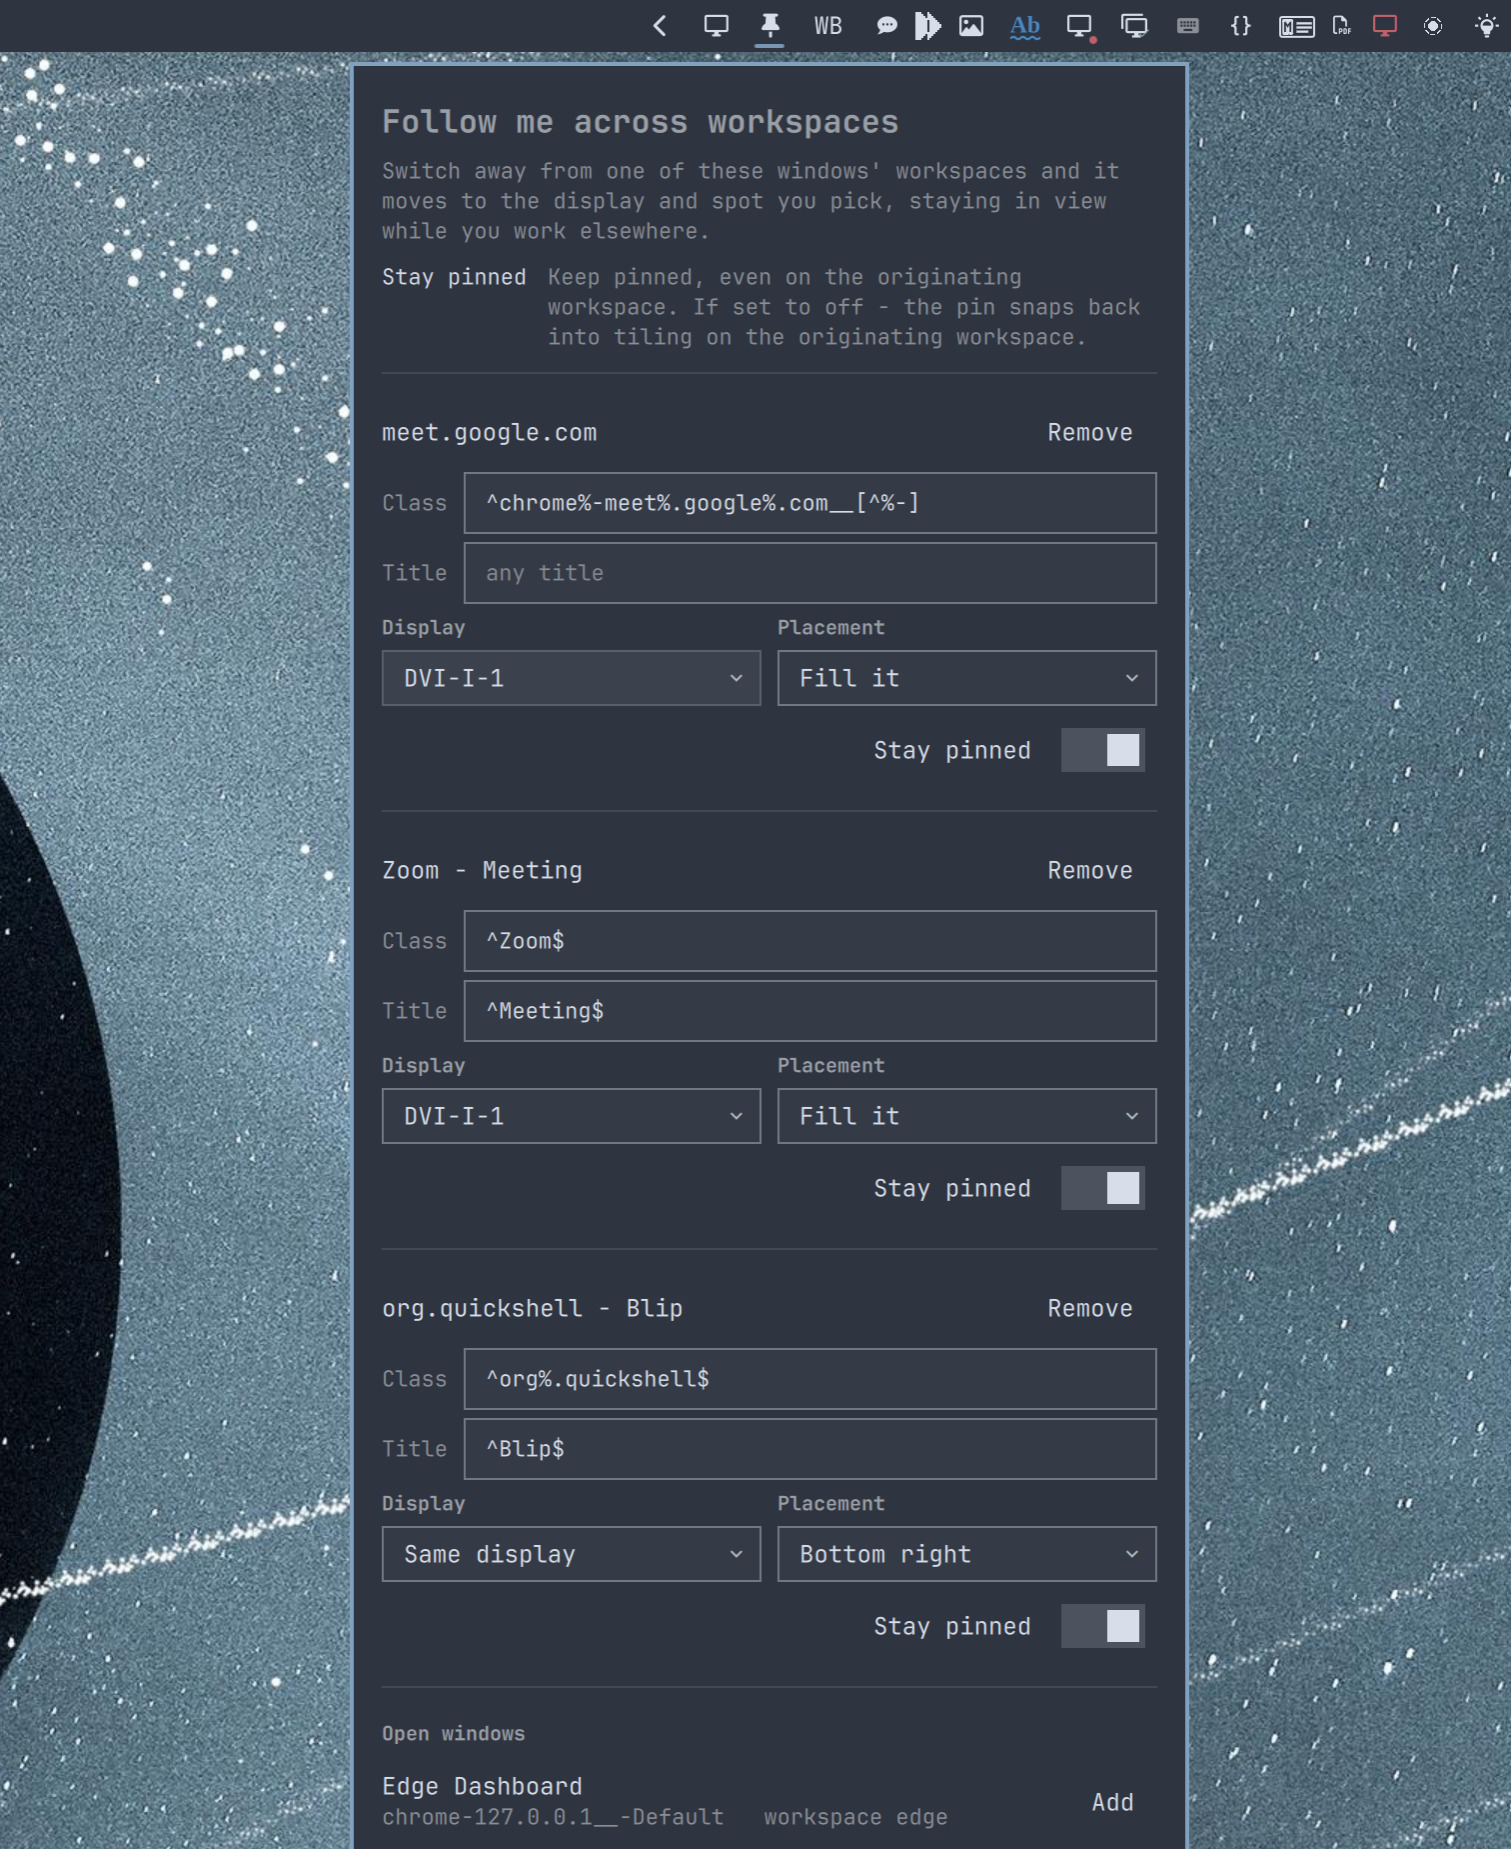
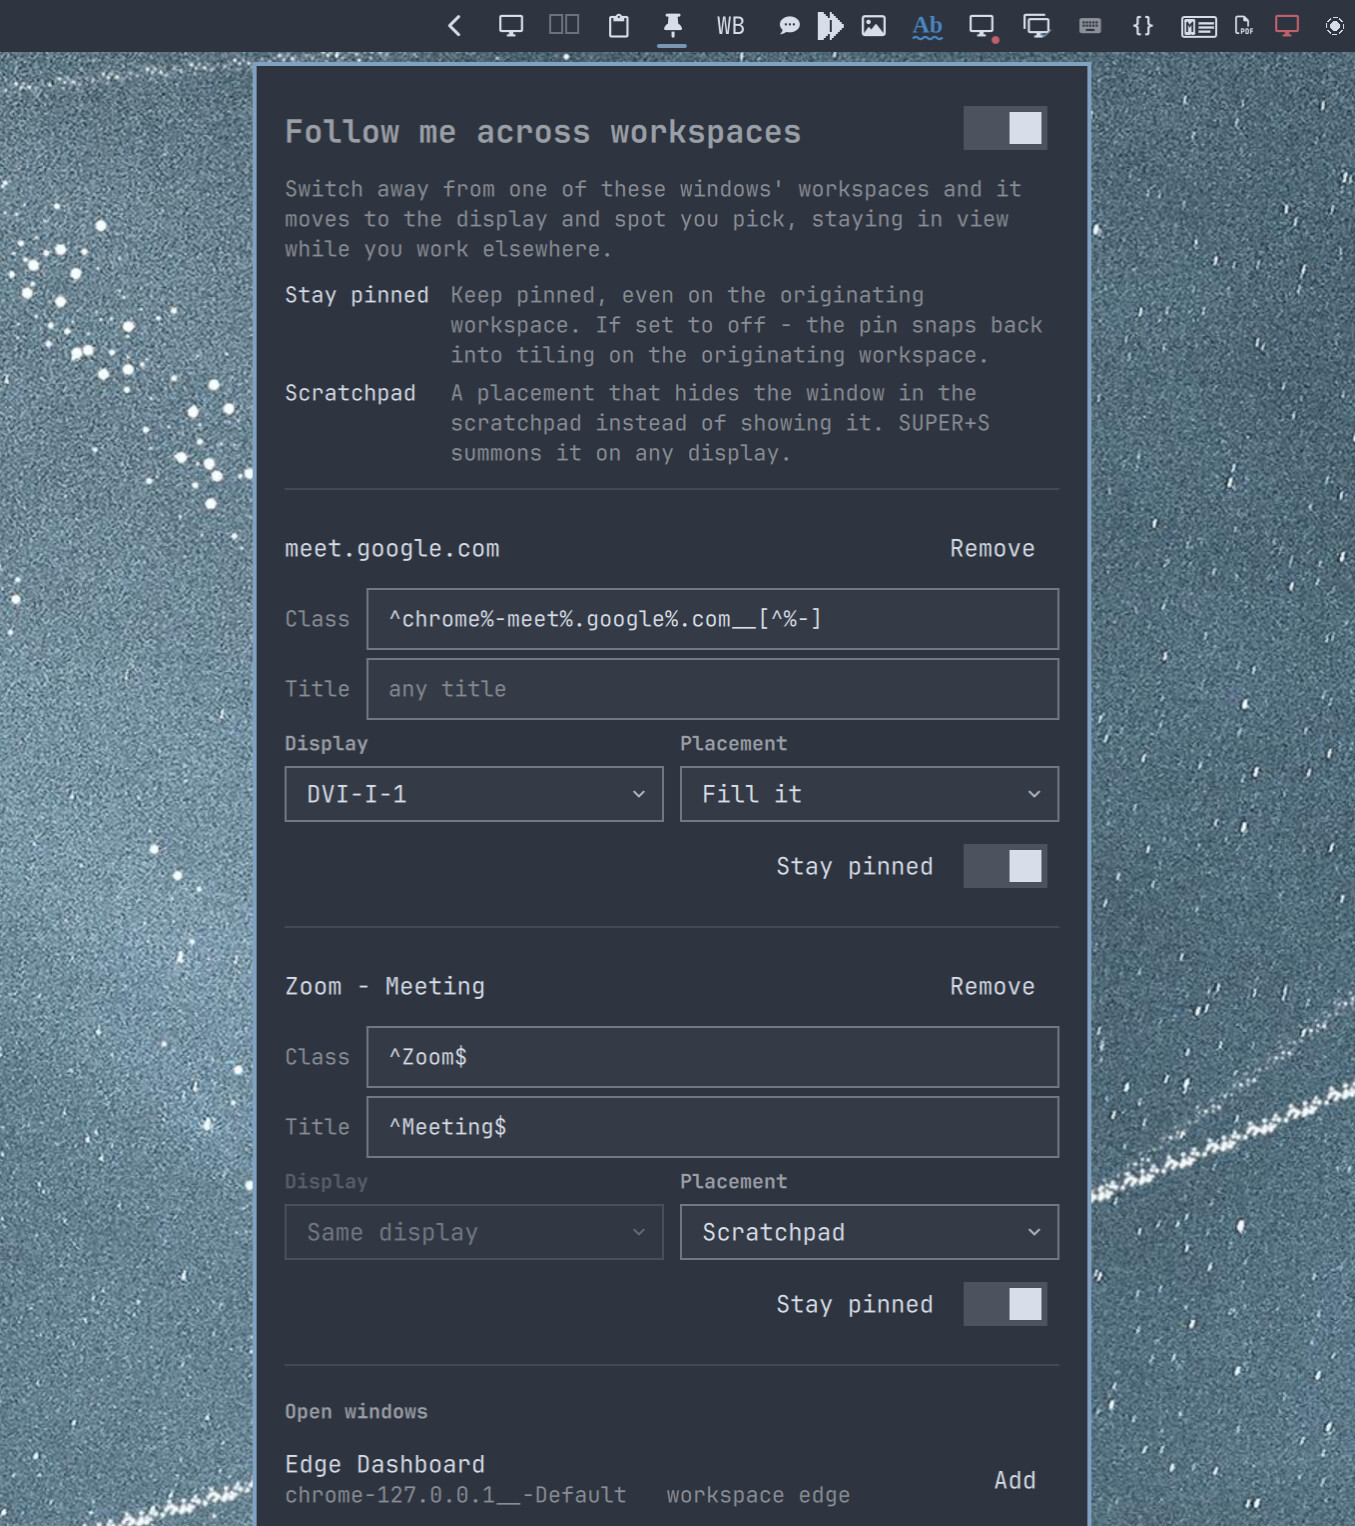
Add a Scratchpad placement, and refresh the preview
A sixth Placement choice parks the window in Hyprland's
special:scratchpad workspace instead of showing it anywhere -- the
workspace Omarchy's SUPER+S and SUPER+grave toggle, so it is a
keypress away on whichever display you are looking at. Stored as
placement "special"; the Display picker dims for it, since a special
workspace follows whichever monitor you toggle it on.

Engine: pop_special saves the same bookkeeping as a float pop and
issues one move, so restore() brings it home by name as before. A
parked window counts as taken when it is no longer on a special
workspace (pulled out by hand), rather than when it stops being
pinned. Zoom is a no-op on it; dock and undock re-park instead of
re-float, and returning to a docked workspace pulls it back out of the
scratchpad. The three pop call sites go through one pop() helper, with
Tiled winning over the placement kept underneath it.

The preview is the current panel, showing the global switch and a
Scratchpad rule.

Claude-Session: https://claude.ai/code/session_011ivv91KAnzXGQiiVKrXSdp

Changed region(s): [[0.0, 0.0, 1.0, 1.0], [0.4959, 0.9548, 0.6199, 0.9856], [0.6819, 0.462, 0.7439, 0.4928]]

diff --git a/Service.qml b/Service.qml
@@ -136,7 +136,7 @@ Item {
             if (monitor.length && !/^[A-Za-z0-9._:-]{1,64}$/.test(monitor))
                 continue
             var placement = typeof r.placement === "string" ? r.placement : "fill"
-            if (placement !== "fill" && placements.indexOf(placement) < 0)
+            if (placement !== "fill" && placement !== "special" && placements.indexOf(placement) < 0)
                 continue
             out.push({
                 "class": cls, title: title, monitor: monitor, placement: placement,
@@ -393,6 +393,10 @@ rulesLua(),
 'S.margin = ' + margin,
 'S.aspect = 16 / 9',
 'S.fallback = ' + luaString(fallbackPlacement),
+'-- The "Scratchpad" placement parks a window here instead of showing it.',
+'-- Omarchy binds SUPER+S and SUPER+grave to toggle this one, so a parked',
+'-- window is a keypress away on whichever monitor you are looking at.',
+'S.special = "special:scratchpad"',
 'S.sizes_path = ' + luaString(sizesPath, 512),
 '',
 'local function rule_key(rule)',
@@ -536,6 +540,8 @@ sizesLua(),
 '  sv.tiled = false',
 'end',
 '',
+'local pop_tile',
+'',
 'local function pop_float(window, rule)',
 '  local home_monitor, home_workspace = window.monitor, window.workspace',
 '  if not home_monitor or not home_workspace then return end',
@@ -592,7 +598,51 @@ sizesLua(),
 '  place_float(window, sv, rule)',
 'end',
 '',
-'local function pop_tile(window, rule)',
+'-- Hide the window in the scratchpad rather than showing it anywhere. Same',
+'-- bookkeeping as a float pop so restore() brings it home by name; no pin,',
+'-- no geometry. Split out so the dock/undock paths can re-park it.',
+'local function park_special(window, sv)',
+'  local selector = "address:" .. window.address',
+'  if (window.fullscreen or 0) ~= 0 then',
+'    hl.dispatch(hl.dsp.window.fullscreen_state({ window = selector, internal = 0, client = 0 }))',
+'  end',
+'  hl.dispatch(hl.dsp.window.move({ window = selector, workspace = S.special, follow = false }))',
+'  sv.tiled = false',
+'end',
+'',
+'-- Returns false when the window already sits on a special workspace: there',
+'-- is nowhere to bring it home to, so the manual pop falls through to stock.',
+'local function pop_special(window, rule)',
+'  local home_monitor, home_workspace = window.monitor, window.workspace',
+'  if not home_monitor or not home_workspace or home_workspace.special then return false end',
+'  local sv = {',
+'    monitor = home_monitor.name,',
+'    workspace_id = home_workspace.id,',
+'    workspace_name = home_workspace.name,',
+'    rule_key = rule_key(rule),',
+'    placement = "special",',
+'    special = true,',
+'    floating = window.floating,',
+'    fullscreen = window.fullscreen,',
+'    fullscreen_client = window.fullscreen_client,',
+'    at = { x = window.at.x, y = window.at.y },',
+'    size = { x = window.size.x, y = window.size.y },',
+'  }',
+'  S.saved[window.address] = sv',
+'  park_special(window, sv)',
+'  return true',
+'end',
+'',
+'-- One entry point for "pop this window out per its rule", whatever the rule',
+'-- asks for. Tiled wins over the placement kept underneath it.',
+'local function pop(window, rule)',
+'  if rule.tile then pop_tile(window, rule) return true end',
+'  if rule.placement == "special" then return pop_special(window, rule) end',
+'  pop_float(window, rule)',
+'  return true',
+'end',
+'',
+'function pop_tile(window, rule)',
 '  local home_monitor, home_workspace = window.monitor, window.workspace',
 '  if not home_monitor or not home_workspace then return end',
 '',
@@ -699,7 +749,7 @@ sizesLua(),
 'function S.toggle_big(address)',
 '  local sv = S.saved[address]',
 '  local window = hl.get_window("address:" .. address)',
-'  if not sv or not window then return end',
+'  if not sv or not window or sv.special then return end',
 '  local selector = "address:" .. address',
 '',
 '  if sv.big_prev then',
@@ -782,8 +832,7 @@ sizesLua(),
 '  end',
 '  local rule = eligible(window)',
 '  if not rule then return false end',
-'  if rule.tile then pop_tile(window, rule) else pop_float(window, rule) end',
-'  return true',
+'  return pop(window, rule)',
 'end',
 '',
 '-- SUPER+T on a pop-out: dock it into the current workspace, or undock back to',
@@ -796,9 +845,9 @@ sizesLua(),
 '  if not sv then return false end',
 '  local rule = eligible(window)',
 '  if sv.dock and not window.floating then',
-'    -- Docked and sitting tiled at home: undock to a floating pop that follows.',
+'    -- Docked and sitting tiled at home: undock to the pop that follows.',
 '    sv.dock = false',
-'    place_float(window, sv, rule)',
+'    if sv.special then park_special(window, sv) else place_float(window, sv, rule) end',
 '  else',
 '    dock_here(window, sv, rule)',
 '  end',
@@ -824,6 +873,9 @@ sizesLua(),
 '        taken = false',
 '      elseif sv.big_prev then',
 '        taken = not window.pinned',
+'      elseif sv.special then',
+'        -- Pulled out of the scratchpad by hand (SUPER+ALT+S, or a drag).',
+'        taken = not (window.workspace and window.workspace.special)',
 '      elseif sv.tiled then',
 '        taken = window.floating',
 '      else',
@@ -839,9 +891,12 @@ sizesLua(),
 '        local at_home = home_active and home_active.id == sv.workspace_id',
 '        if sv.dock then',
 '          if at_home then',
-'            -- Back on the docked workspace: re-tile if we floated away.',
-'            if window.floating then',
+'            -- Back on the docked workspace: re-tile if we floated away (or',
+'            -- were parked in the scratchpad meanwhile).',
+'            local parked = sv.special and window.workspace and window.workspace.special',
+'            if window.floating or parked then',
 '              hl.dispatch(hl.dsp.window.pin({ window = "address:" .. window.address, action = "off" }))',
+'              hl.dispatch(hl.dsp.window.move({ window = "address:" .. window.address, workspace = sv.workspace_name, follow = false }))',
 '              hl.dispatch(hl.dsp.window.float({ window = "address:" .. window.address, action = "off" }))',
 '              if sv.placed_at and sv.placed_at ~= "fill" then',
 '                local tw, th = geometry(home, sv.placed_at, remembered(rule))',
@@ -850,8 +905,9 @@ sizesLua(),
 '              sv.tiled = true',
 '            end',
 '          elseif not window.floating then',
-'            -- Left the docked workspace while tiled: float out to the corner.',
-'            place_float(window, sv, rule)',
+'            -- Left the docked workspace while tiled: float out to the corner',
+'            -- (or back into the scratchpad for a rule that parks there).',
+'            if sv.special then park_special(window, sv) else place_float(window, sv, rule) end',
 '            -- For a stay window the dock is only ever a park-here-for-now: once',
 '            -- you leave, it reverts to the plain floating pop that stay means,',
 '            -- and does not re-tile on return (press SUPER+T again to re-dock).',
@@ -871,7 +927,7 @@ sizesLua(),
 '      local active = monitor and monitor.active_workspace',
 '      if rule and active and workspace and not workspace.special',
 '          and active.id ~= workspace.id then',
-'        if rule.tile then pop_tile(window, rule) else pop_float(window, rule) end',
+'        pop(window, rule)',
 '      end',
 '    end',
 '  end',
@@ -889,7 +945,7 @@ sizesLua(),
 'local function sample()',
 '  if S.gen ~= gen then return end',
 '  for address, sv in pairs(S.saved) do',
-'    if not sv.big_prev and not sv.tiled and sv.placement and sv.placement ~= "fill" then',
+'    if not sv.big_prev and not sv.tiled and not sv.special and sv.placement and sv.placement ~= "fill" then',
 '      local w = hl.get_window("address:" .. address)',
 '      if w and w.pinned and sv.expected_w',
 '          and (w.size.x ~= sv.expected_w or w.size.y ~= sv.expected_h) then',

diff --git a/HyprpinPanel.qml b/HyprpinPanel.qml
@@ -402,7 +402,8 @@ Panel {
         { value: "bottom-left", label: "Bottom left" },
         { value: "top-right", label: "Top right" },
         { value: "top-left", label: "Top left" },
-        { value: "tiled", label: "Tiled" }
+        { value: "tiled", label: "Tiled" },
+        { value: "special", label: "Scratchpad" }
     ]
 
     onOpenedChanged: {
@@ -571,6 +572,23 @@ Panel {
                         wrapMode: Text.WordWrap
                     }
 
+                    Text {
+                        Layout.alignment: Qt.AlignTop
+                        text: "Scratchpad"
+                        textFormat: Text.PlainText
+                        color: root.foreground
+                        font.family: root.fontFamily
+                        font.pixelSize: Style.font.bodySmall
+                    }
+                    Text {
+                        Layout.fillWidth: true
+                        text: "A placement that hides the window in the scratchpad instead of showing it. SUPER+S summons it on any display."
+                        textFormat: Text.PlainText
+                        color: root.dim
+                        font.family: root.fontFamily
+                        font.pixelSize: Style.font.bodySmall
+                        wrapMode: Text.WordWrap
+                    }
                 }
 
                 PanelSeparator {
@@ -681,6 +699,11 @@ Panel {
                                 Layout.fillWidth: true
                                 label: "Display"
                                 options: root.monitorOptions
+                                // A special workspace follows whichever monitor you
+                                // toggle it on, so the display is moot for Scratchpad.
+                                readonly property bool moot: modelData.placement === "special" && modelData.tile !== true
+                                enabled: !moot
+                                opacity: moot ? 0.4 : 1
                                 value: modelData.monitor
                                 foreground: root.foreground
                                 fontFamily: root.fontFamily
@@ -710,7 +733,7 @@ Panel {
                                 PanelToolTip {
                                     visible: parent.hoverNow && !parent.popupOpen
                                     delay: 350
-                                    text: "Tiled: still follows you across workspaces -- it joins each workspace's layout wherever the layout puts it, instead of floating over a corner."
+                                    text: "Tiled: still follows you across workspaces -- it joins each workspace's layout wherever the layout puts it, instead of floating over a corner.\nScratchpad: hides it in the scratchpad instead; SUPER+S brings it up."
                                     fontFamily: root.fontFamily
                                 }
                             }

diff --git a/README.md b/README.md
@@ -1,8 +1,9 @@
 # Hyprpin
 
 Keeps chosen windows visible when you switch away from their workspace: moved
-onto a display of their own, or parked in a corner. Compositor-level
-picture-in-picture, for the calls a browser will only do this for inside a tab.
+onto a display of their own, parked in a corner, or tucked into the scratchpad
+a keypress away. Compositor-level picture-in-picture, for the calls a browser
+will only do this for inside a tab.
 
 Click the bar icon, pick a window from **Open windows**, then choose a display
 and a placement for it. From then on, whenever the workspace behind that window
@@ -81,7 +82,13 @@ on the next change or restart.
   may be `""` to match on class alone. Widen or narrow a rule by hand -- e.g.
   relax `^Blip$` to `^Blip` so `Blip (2)` still matches.
 - `monitor` -- output name, or `""` for whichever display the window is on.
-- `placement` -- `fill`, `bottom-right`, `bottom-left`, `top-right`, `top-left`.
+- `placement` -- `fill`, `bottom-right`, `bottom-left`, `top-right`, `top-left`,
+  or `special`. In the panel `special` is the "Scratchpad" choice: instead of
+  showing the window anywhere, the engine parks it in Hyprland's
+  `special:scratchpad` workspace, the one Omarchy's SUPER+S and SUPER+grave
+  toggle, so it is a keypress away on whichever display you are looking at.
+  `monitor` is ignored for it. Pull it out of the scratchpad by hand
+  (SUPER+ALT+S) and the engine lets go of it, as with a manual unpin.
 - `stay` -- `true` (the default for new rules) keeps it popped even when you
   return to its home workspace; it only comes back when you unpin it yourself.
   Set `false` to have it snap back to where it was when you return.
@@ -101,7 +108,8 @@ Wired in `~/.config/hypr/local.lua`:
   with a rule goes to that rule's display and corner (remembered size if you
   have resized it before); anything else gets the stock 65%x95% centered pop.
 - **SUPER+Z** -- zoom a pop-out to half the display wide, 80% tall, centered;
-  again puts it back. Does nothing on a window that is not a pop-out.
+  again puts it back. Does nothing on a window that is not a pop-out, or on
+  one parked in the scratchpad.
 - **SUPER+T** -- on a pop-out, dock it into the current workspace (it tiles in,
   and that workspace becomes its home); leaving re-floats it to the configured
   corner, returning re-tiles it. Press again to undock back to a floating pop.
